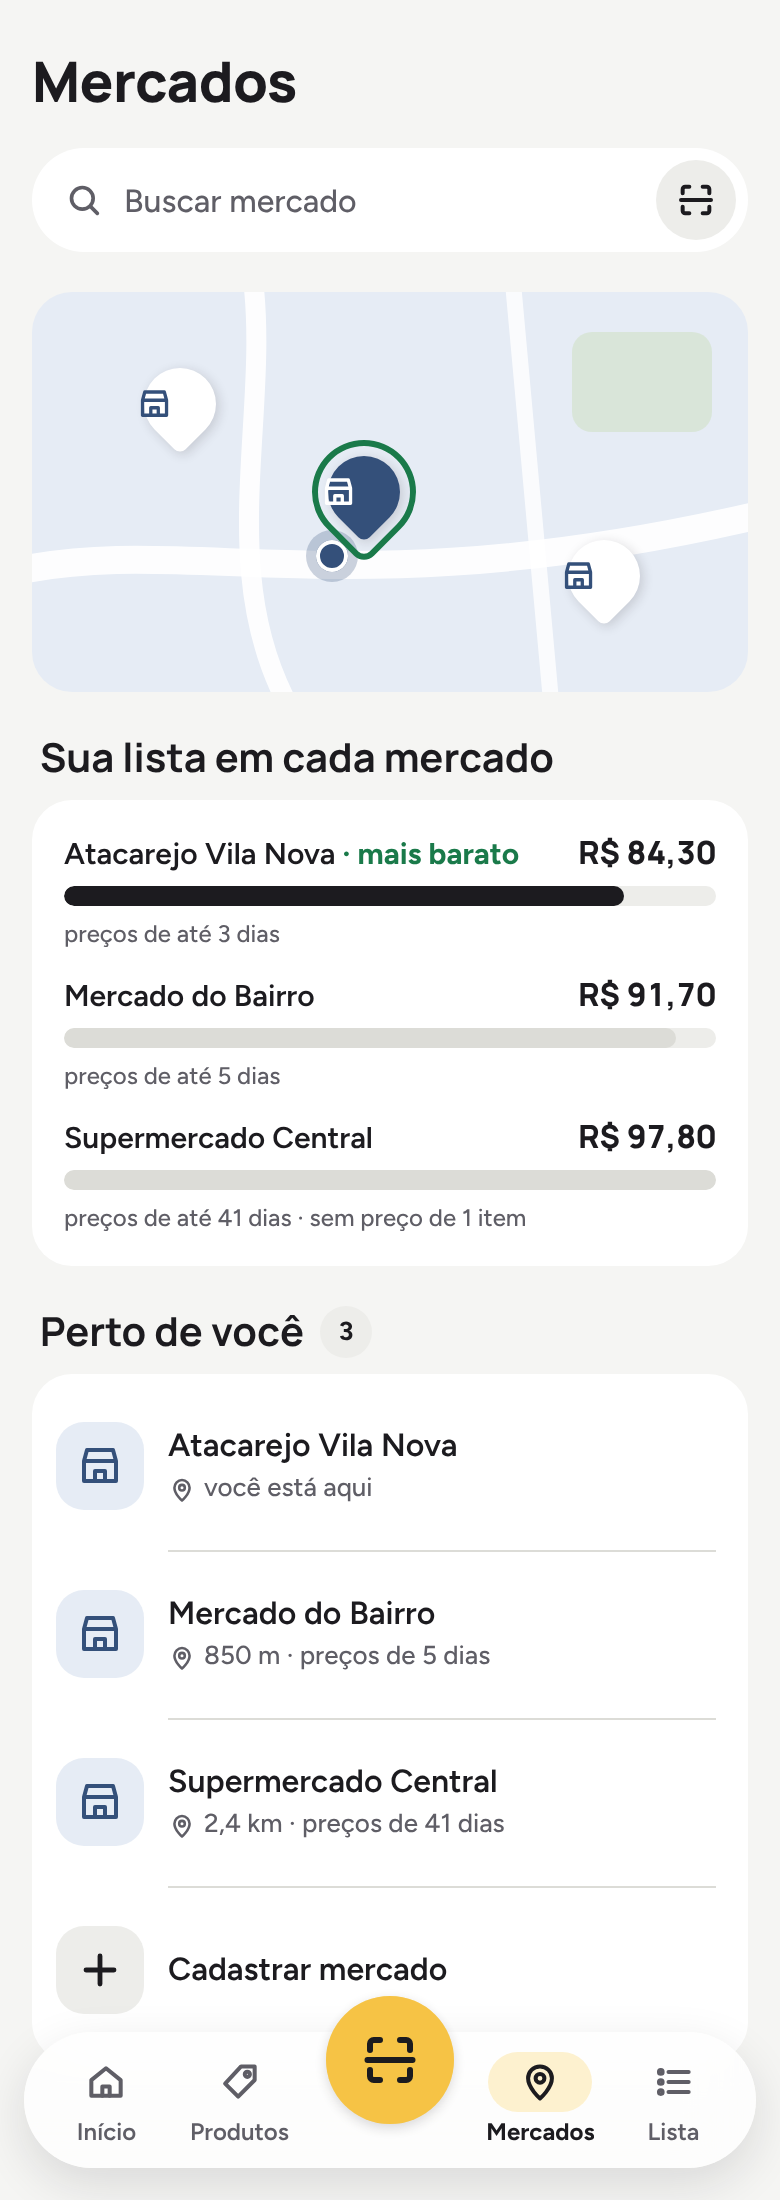
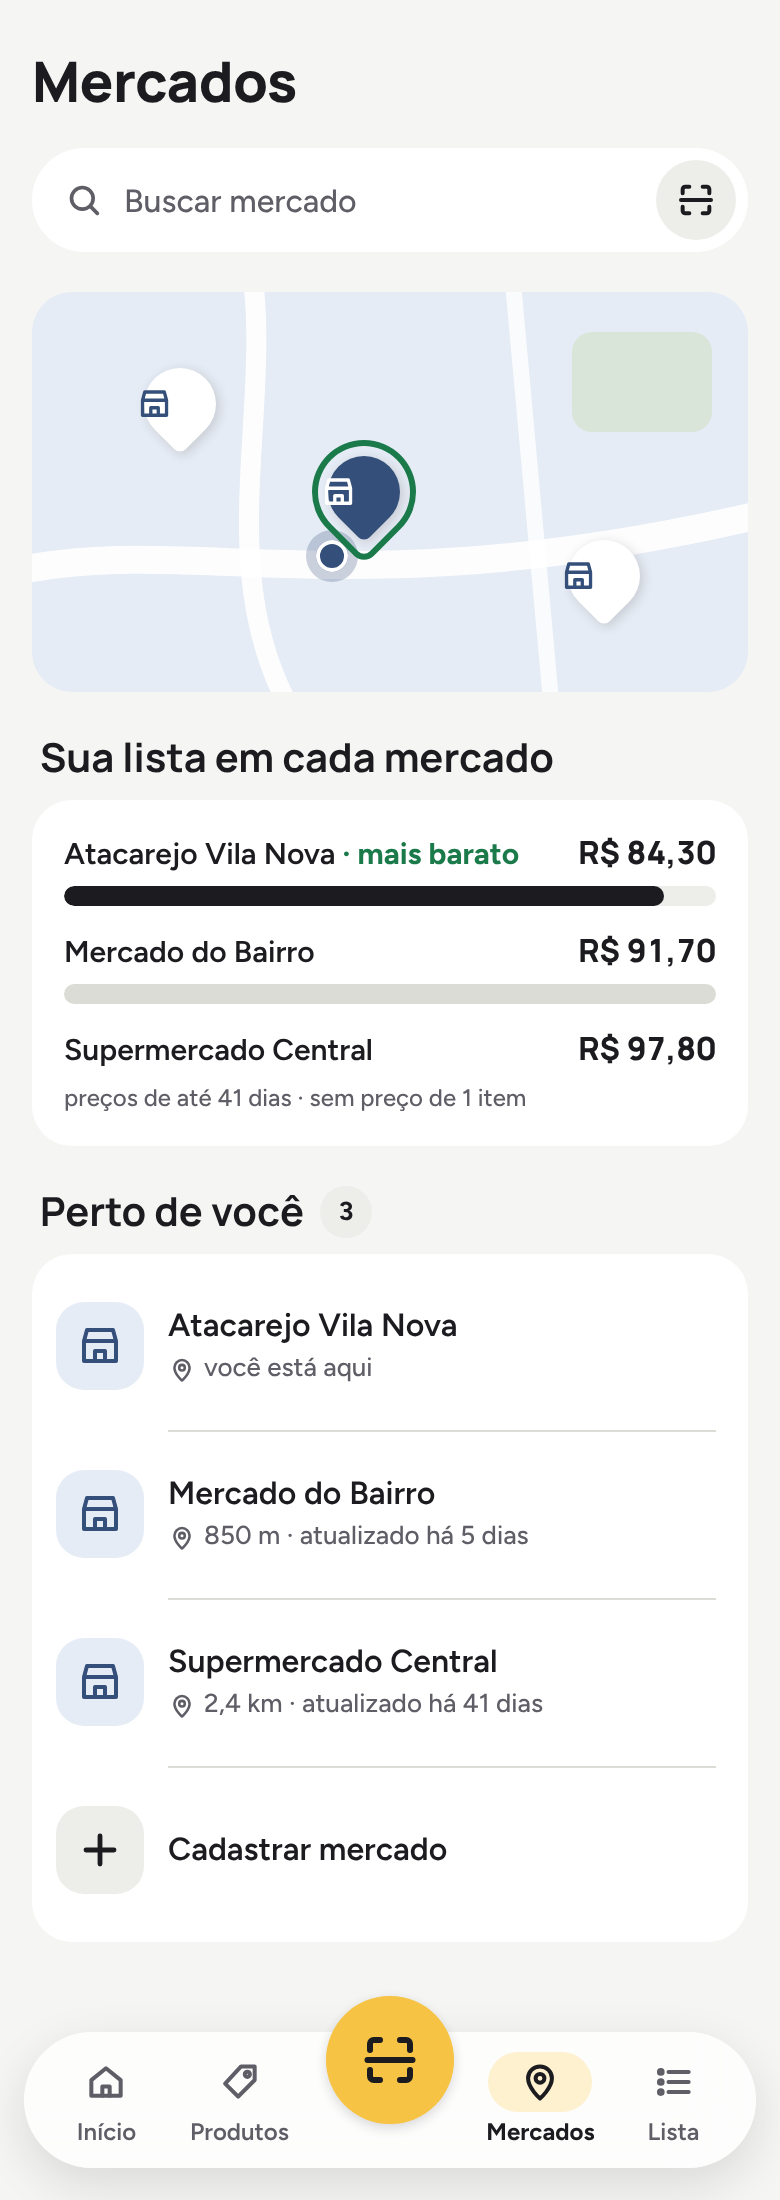
fix(markets): separa a idade da visita da do total e tira a barra do incompleto
A lista de mercados passa a dizer "atualizado há 5 dias" (o preço mais
recente dali), e a comparação só diz "preços de até 41 dias" quando o
mais antigo do total passa de 30 dias. O mercado sem preço de tudo fica
sem barra: o total dele é de outra cesta, e a barra mais curta parecia
"mais barato" contra o selo. A prancha "Mercados" acompanha.

Claude-Session: https://claude.ai/code/session_01XoR8k38DG85jdEd8v6SSEa

Changed region(s): [[0.0308, 0.5873, 0.7077, 0.8964], [0.0615, 0.4018, 0.9231, 0.5564]]

diff --git a/docs/design/prototipo/fonte/Mercados.dc.html b/docs/design/prototipo/fonte/Mercados.dc.html
@@ -58,9 +58,9 @@ a{color:#1C1B22}a:hover{color:#B00E28}
     <section class="section">
       <div class="bipa-section-head"><h2>Sua lista em cada mercado</h2></div>
       <div class="bipa-compare">
-        <div class="bipa-compare__row is-best"><div class="bipa-compare__top"><span>Atacarejo Vila Nova</span><strong>R$ 84,30</strong></div><div class="bipa-compare__bar"><i style="--p: 86"></i></div><span class="cmp-note">preços de até 3 dias</span></div>
-        <div class="bipa-compare__row"><div class="bipa-compare__top"><span>Mercado do Bairro</span><strong>R$ 91,70</strong></div><div class="bipa-compare__bar"><i style="--p: 94"></i></div><span class="cmp-note">preços de até 5 dias</span></div>
-        <div class="bipa-compare__row"><div class="bipa-compare__top"><span>Supermercado Central</span><strong>R$ 97,80</strong></div><div class="bipa-compare__bar"><i style="--p: 100"></i></div><span class="cmp-note">preços de até 41 dias · sem preço de 1 item</span></div>
+        <div class="bipa-compare__row is-best"><div class="bipa-compare__top"><span>Atacarejo Vila Nova</span><strong>R$ 84,30</strong></div><div class="bipa-compare__bar"><i style="--p: 92"></i></div></div>
+        <div class="bipa-compare__row"><div class="bipa-compare__top"><span>Mercado do Bairro</span><strong>R$ 91,70</strong></div><div class="bipa-compare__bar"><i style="--p: 100"></i></div></div>
+        <div class="bipa-compare__row"><div class="bipa-compare__top"><span>Supermercado Central</span><strong>R$ 97,80</strong></div><span class="cmp-note">preços de até 41 dias · sem preço de 1 item</span></div>
       </div>
     </section>
 
@@ -68,8 +68,8 @@ a{color:#1C1B22}a:hover{color:#B00E28}
       <div class="bipa-section-head"><h2>Perto de você</h2><span class="bipa-count">3</span></div>
       <div class="bipa-mprices">
         <div class="bipa-mprice"><span class="bipa-thumb" style="color: var(--place); background: var(--place-soft);"><svg viewBox="0 0 24 24" fill="none" stroke="currentColor" stroke-width="2" stroke-linecap="round" stroke-linejoin="round" aria-hidden="true"><path d="M4 9.5L5.5 4h13L20 9.5M4 9.5h16M4 9.5v10h16v-10M9.5 19.5v-5h5v5"/></svg></span><span class="bipa-mprice__name">Atacarejo Vila Nova<span class="bipa-mprice__age"><svg viewBox="0 0 24 24" fill="none" stroke="currentColor" stroke-width="2.2" stroke-linecap="round" stroke-linejoin="round" aria-hidden="true"><path d="M12 21s-6.5-5.6-6.5-11a6.5 6.5 0 0 1 13 0c0 5.4-6.5 11-6.5 11z"/><circle cx="12" cy="10" r="2.4"/></svg>você está aqui</span></span><span style="color: var(--ink-muted);"><svg viewBox="0 0 24 24" fill="none" stroke="currentColor" stroke-width="2.4" stroke-linecap="round" stroke-linejoin="round" aria-hidden="true"><path d="M9 6l6 6-6 6"/></svg></span></div>
-        <div class="bipa-mprice"><span class="bipa-thumb" style="color: var(--place); background: var(--place-soft);"><svg viewBox="0 0 24 24" fill="none" stroke="currentColor" stroke-width="2" stroke-linecap="round" stroke-linejoin="round" aria-hidden="true"><path d="M4 9.5L5.5 4h13L20 9.5M4 9.5h16M4 9.5v10h16v-10M9.5 19.5v-5h5v5"/></svg></span><span class="bipa-mprice__name">Mercado do Bairro<span class="bipa-mprice__age"><svg viewBox="0 0 24 24" fill="none" stroke="currentColor" stroke-width="2.2" stroke-linecap="round" stroke-linejoin="round" aria-hidden="true"><path d="M12 21s-6.5-5.6-6.5-11a6.5 6.5 0 0 1 13 0c0 5.4-6.5 11-6.5 11z"/><circle cx="12" cy="10" r="2.4"/></svg>850 m · preços de 5 dias</span></span><span style="color: var(--ink-muted);"><svg viewBox="0 0 24 24" fill="none" stroke="currentColor" stroke-width="2.4" stroke-linecap="round" stroke-linejoin="round" aria-hidden="true"><path d="M9 6l6 6-6 6"/></svg></span></div>
-        <div class="bipa-mprice"><span class="bipa-thumb" style="color: var(--place); background: var(--place-soft);"><svg viewBox="0 0 24 24" fill="none" stroke="currentColor" stroke-width="2" stroke-linecap="round" stroke-linejoin="round" aria-hidden="true"><path d="M4 9.5L5.5 4h13L20 9.5M4 9.5h16M4 9.5v10h16v-10M9.5 19.5v-5h5v5"/></svg></span><span class="bipa-mprice__name">Supermercado Central<span class="bipa-mprice__age"><svg viewBox="0 0 24 24" fill="none" stroke="currentColor" stroke-width="2.2" stroke-linecap="round" stroke-linejoin="round" aria-hidden="true"><path d="M12 21s-6.5-5.6-6.5-11a6.5 6.5 0 0 1 13 0c0 5.4-6.5 11-6.5 11z"/><circle cx="12" cy="10" r="2.4"/></svg>2,4 km · preços de 41 dias</span></span><span style="color: var(--ink-muted);"><svg viewBox="0 0 24 24" fill="none" stroke="currentColor" stroke-width="2.4" stroke-linecap="round" stroke-linejoin="round" aria-hidden="true"><path d="M9 6l6 6-6 6"/></svg></span></div>
+        <div class="bipa-mprice"><span class="bipa-thumb" style="color: var(--place); background: var(--place-soft);"><svg viewBox="0 0 24 24" fill="none" stroke="currentColor" stroke-width="2" stroke-linecap="round" stroke-linejoin="round" aria-hidden="true"><path d="M4 9.5L5.5 4h13L20 9.5M4 9.5h16M4 9.5v10h16v-10M9.5 19.5v-5h5v5"/></svg></span><span class="bipa-mprice__name">Mercado do Bairro<span class="bipa-mprice__age"><svg viewBox="0 0 24 24" fill="none" stroke="currentColor" stroke-width="2.2" stroke-linecap="round" stroke-linejoin="round" aria-hidden="true"><path d="M12 21s-6.5-5.6-6.5-11a6.5 6.5 0 0 1 13 0c0 5.4-6.5 11-6.5 11z"/><circle cx="12" cy="10" r="2.4"/></svg>850 m · atualizado há 5 dias</span></span><span style="color: var(--ink-muted);"><svg viewBox="0 0 24 24" fill="none" stroke="currentColor" stroke-width="2.4" stroke-linecap="round" stroke-linejoin="round" aria-hidden="true"><path d="M9 6l6 6-6 6"/></svg></span></div>
+        <div class="bipa-mprice"><span class="bipa-thumb" style="color: var(--place); background: var(--place-soft);"><svg viewBox="0 0 24 24" fill="none" stroke="currentColor" stroke-width="2" stroke-linecap="round" stroke-linejoin="round" aria-hidden="true"><path d="M4 9.5L5.5 4h13L20 9.5M4 9.5h16M4 9.5v10h16v-10M9.5 19.5v-5h5v5"/></svg></span><span class="bipa-mprice__name">Supermercado Central<span class="bipa-mprice__age"><svg viewBox="0 0 24 24" fill="none" stroke="currentColor" stroke-width="2.2" stroke-linecap="round" stroke-linejoin="round" aria-hidden="true"><path d="M12 21s-6.5-5.6-6.5-11a6.5 6.5 0 0 1 13 0c0 5.4-6.5 11-6.5 11z"/><circle cx="12" cy="10" r="2.4"/></svg>2,4 km · atualizado há 41 dias</span></span><span style="color: var(--ink-muted);"><svg viewBox="0 0 24 24" fill="none" stroke="currentColor" stroke-width="2.4" stroke-linecap="round" stroke-linejoin="round" aria-hidden="true"><path d="M9 6l6 6-6 6"/></svg></span></div>
         <a class="bipa-mprice" href="Mercados.dc.html" style="text-decoration: none; color: inherit;"><span class="bipa-thumb"><svg viewBox="0 0 24 24" fill="none" stroke="currentColor" stroke-width="2.4" stroke-linecap="round" stroke-linejoin="round" aria-hidden="true"><path d="M12 5v14M5 12h14"/></svg></span><span class="bipa-mprice__name">Cadastrar mercado</span><span style="color: var(--ink-muted);"><svg viewBox="0 0 24 24" fill="none" stroke="currentColor" stroke-width="2.4" stroke-linecap="round" stroke-linejoin="round" aria-hidden="true"><path d="M9 6l6 6-6 6"/></svg></span></a>
       </div>
     </section>

diff --git a/lib/core/design_system/components/list_cost_compare.dart b/lib/core/design_system/components/list_cost_compare.dart
@@ -6,15 +6,16 @@ import 'package:flutter/material.dart';
 /// Uma linha da comparação: o mercado, o total e o tamanho da barra.
 @immutable
 class ListCostRow {
-  const ListCostRow({required this.name, required this.value, required this.fraction, this.note});
+  const ListCostRow({required this.name, required this.value, this.fraction, this.note});
 
   final String name;
 
   /// O total já formatado: "R$ 84,30".
   final String value;
 
-  /// O total em relação ao maior, de 0 a 1.
-  final double fraction;
+  /// O total em relação ao maior, de 0 a 1. `null` tira a barra: o total de
+  /// um mercado sem preço de tudo não se compara com o dos outros.
+  final double? fraction;
 
   /// Uma ressalva em cinza, como "preços de até 12 dias · sem preço de 2
   /// itens".
@@ -64,6 +65,7 @@ class _CompareRow extends StatelessWidget {
     final colors = context.colors;
     final best = this.best;
     final note = row.note;
+    final fraction = row.fraction;
     return MergeSemantics(
       child: Column(
         crossAxisAlignment: CrossAxisAlignment.stretch,
@@ -91,33 +93,35 @@ class _CompareRow extends StatelessWidget {
               Text(row.value, style: BipaText.number.copyWith(color: colors.ink)),
             ],
           ),
-          const SizedBox(height: BipaSpacing.s2),
-          // Desenhada à mão: o LinearProgressIndicator do Material 3 põe um
-          // vão e um ponto no fim que o design system não tem.
-          ClipRRect(
-            borderRadius: BorderRadius.circular(BipaRadius.pill),
-            child: ColoredBox(
-              color: colors.surfaceSunken,
-              child: SizedBox(
-                height: 10,
-                child: TweenAnimationBuilder<double>(
-                  tween: Tween(begin: 0, end: row.fraction.clamp(0.0, 1.0)),
-                  duration: BipaMotion.slow,
-                  curve: BipaMotion.spring,
-                  builder: (context, value, _) => FractionallySizedBox(
-                    alignment: AlignmentDirectional.centerStart,
-                    widthFactor: value.clamp(0.0, 1.0),
-                    child: DecoratedBox(
-                      decoration: BoxDecoration(
-                        color: best != null ? colors.ink : colors.line,
-                        borderRadius: BorderRadius.circular(BipaRadius.pill),
+          if (fraction != null) ...[
+            const SizedBox(height: BipaSpacing.s2),
+            // Desenhada à mão: o LinearProgressIndicator do Material 3 põe um
+            // vão e um ponto no fim que o design system não tem.
+            ClipRRect(
+              borderRadius: BorderRadius.circular(BipaRadius.pill),
+              child: ColoredBox(
+                color: colors.surfaceSunken,
+                child: SizedBox(
+                  height: 10,
+                  child: TweenAnimationBuilder<double>(
+                    tween: Tween(begin: 0, end: fraction.clamp(0.0, 1.0)),
+                    duration: BipaMotion.slow,
+                    curve: BipaMotion.spring,
+                    builder: (context, value, _) => FractionallySizedBox(
+                      alignment: AlignmentDirectional.centerStart,
+                      widthFactor: value.clamp(0.0, 1.0),
+                      child: DecoratedBox(
+                        decoration: BoxDecoration(
+                          color: best != null ? colors.ink : colors.line,
+                          borderRadius: BorderRadius.circular(BipaRadius.pill),
+                        ),
                       ),
                     ),
                   ),
                 ),
               ),
             ),
-          ),
+          ],
           if (note != null) ...[
             const SizedBox(height: BipaSpacing.s1),
             Text(note, style: BipaText.caption.copyWith(color: colors.inkMuted)),

diff --git a/lib/features/markets/presentation/markets_page.dart b/lib/features/markets/presentation/markets_page.dart
@@ -1,5 +1,3 @@
-import 'dart:math' as math;
-
 import 'package:bipa/core/catalog/text_fold.dart';
 import 'package:bipa/core/design_system/bipa_metrics.dart';
 import 'package:bipa/core/design_system/bipa_theme.dart';
@@ -10,6 +8,7 @@ import 'package:bipa/core/design_system/components/market_map.dart';
 import 'package:bipa/core/design_system/components/price_rows.dart';
 import 'package:bipa/core/design_system/components/section_header.dart';
 import 'package:bipa/core/di/core_providers.dart';
+import 'package:bipa/core/formatting/calendar_days.dart';
 import 'package:bipa/core/formatting/formatters.dart';
 import 'package:bipa/core/l10n/app_localizations.dart';
 import 'package:bipa/core/l10n/meta_join.dart';
@@ -144,11 +143,10 @@ class _MarketsPageState extends ConsumerState<MarketsPage> {
                         ListCostRow(
                           name: cost.marketName,
                           value: cost.total.format(),
-                          fraction: cost.total.cents / _highest(compare),
-                          note: l10n.joinMeta([
-                            l10n.marketsOldestPrice(_ageInDays(now, cost.oldest)),
-                            if (cost.isPartial) l10n.marketsMissingPrices(cost.items - cost.priced),
-                          ]),
+                          // Sem preço de tudo, o total é de outra cesta: uma
+                          // barra mais curta diria "mais barato" sem ser.
+                          fraction: cost.isPartial ? null : cost.total.cents / _highestComplete(compare),
+                          note: _costNote(l10n, cost, now),
                         ),
                     ],
                   ),
@@ -179,13 +177,27 @@ class _MarketsPageState extends ConsumerState<MarketsPage> {
     if (mounted) ref.invalidate(currentLocationProvider);
   }
 
-  /// Em dias do calendário, como na tela do mercado. Um preço "do futuro"
-  /// (relógio do aparelho errado) conta como de hoje.
-  static int _ageInDays(DateTime now, DateTime seen) =>
-      math.max(0, DateUtils.dateOnly(now).difference(DateUtils.dateOnly(seen)).inDays);
+  /// O maior total entre os mercados com a lista inteira: a escala das
+  /// barras.
+  static int _highestComplete(List<MarketListCost> costs) => costs
+      .where((c) => !c.isPartial)
+      .map((c) => c.total.cents)
+      .fold(1, (max, cents) => cents > max ? cents : max);
 
-  static int _highest(List<MarketListCost> costs) =>
-      costs.map((c) => c.total.cents).fold(1, (max, cents) => cents > max ? cents : max);
+  /// A partir de quantos dias o preço mais antigo do total merece ressalva.
+  /// Abaixo disso, a idade não muda a decisão e fica de fora (calma por
+  /// padrão); a idade da última visita está na linha do mercado.
+  static const _staleAfterDays = 30;
+
+  /// "preços de até 41 dias · sem preço de 1 item", só com o que pesa.
+  static String? _costNote(AppLocalizations l10n, MarketListCost cost, DateTime now) {
+    final days = calendarDaysSince(cost.oldest, now);
+    final note = l10n.joinMeta([
+      if (days >= _staleAfterDays) l10n.marketsOldestPrice(days),
+      if (cost.isPartial) l10n.marketsMissingPrices(cost.items - cost.priced),
+    ]);
+    return note.isEmpty ? null : note;
+  }
 
   static MarketMapPin _pin(({double east, double north}) offset, {required bool here, required bool best}) =>
       MarketMapPin(east: offset.east, north: offset.north, here: here, best: best);
